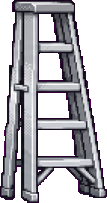
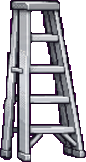
Hardcore: smaller ladder (about 1.15x a wrestler) and lower perch on top
Claude-Session: https://claude.ai/code/session_01Vt6RynQ8ccLExMRf8m5kQm

diff --git a/src/20c_hardcore.js b/src/20c_hardcore.js
@@ -32,7 +32,7 @@ function updSwing(f,o){const p=propAt(f.wpn);if(!p){setState(f,'idle');return;}
  if(f.t>0.5)setState(f,'idle');}
 // the ladder: climbing up, standing on top
 function updLadderMan(f,o,inp,dt){const p=propAt(f.lad);if(!p||p.st!=='open'){f.lad=-1;if(f.y>4)knock(f,-f.dir*60,40,true);else setState(f,'idle');return;}
- const top=HC().ladderTop||66;f.vx=f.vz=0;f.x=p.x;f.z=p.z+0.3;
+ const top=HC().ladderTop||52;f.vx=f.vz=0;f.x=p.x;f.z=p.z+0.3;
  if(f.state==='lclimb'){f.y=top*Math.min(1,f.t/0.9);f.walkPh+=dt*12;if(f.t>=0.9){setState(f,'ltop');f.y=top;say(`${f.ch.short} is at the top of the ladder!`);heat(0.12);sfx('roar');}return;}
  f.y=top;f.dir=o.x>=f.x?1:-1;
  if(inp.punchP||inp.kickP){p.climber=-1;f.lad=-1;f.ladDive={hp:o.hp};startDive(f,o);callout('OFF THE LADDER!','#ff8a1f',1.2);}
